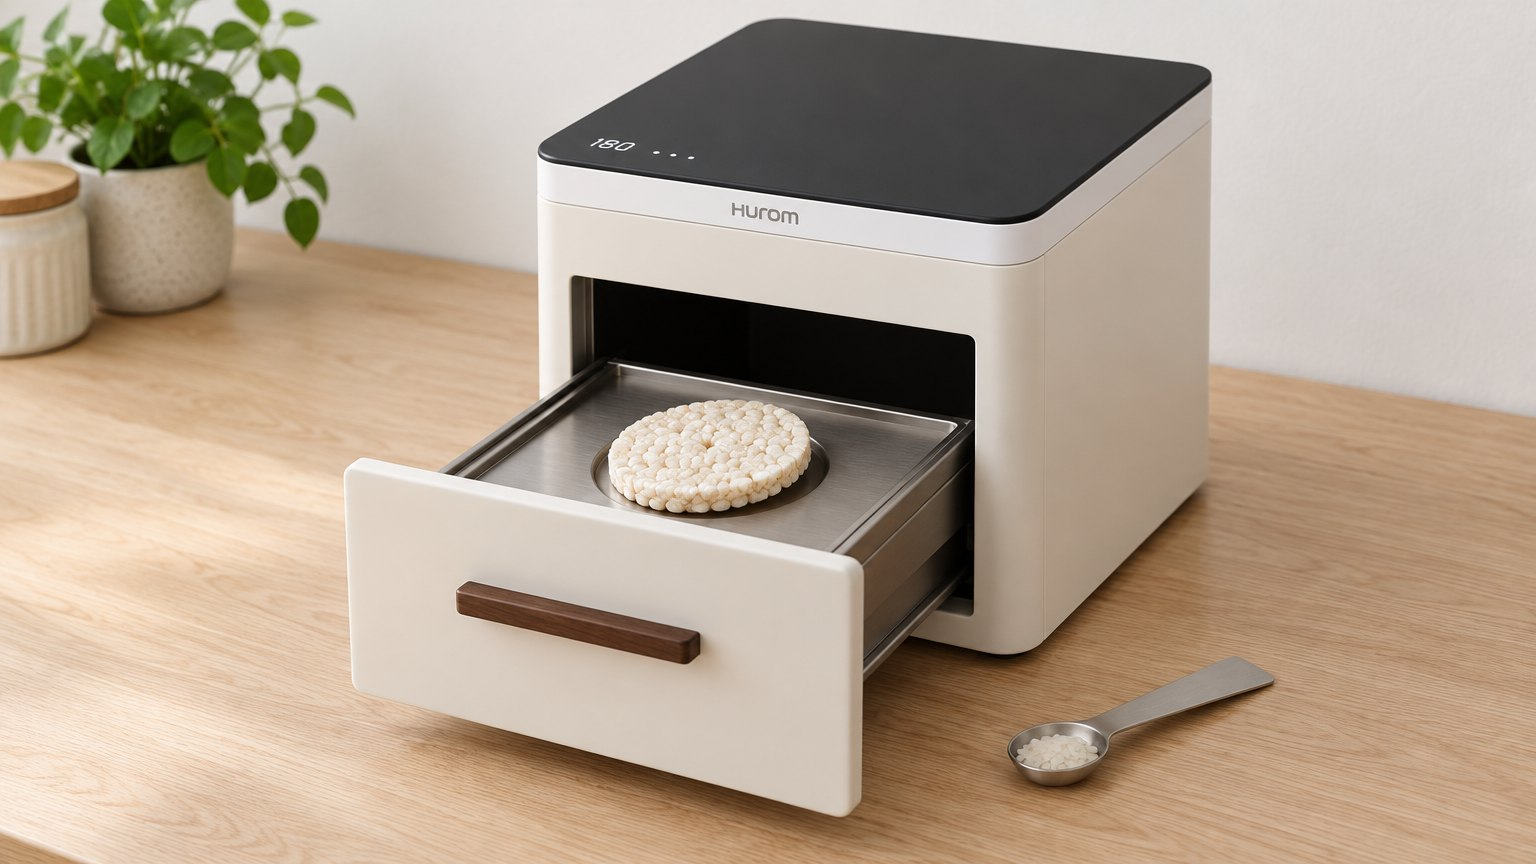
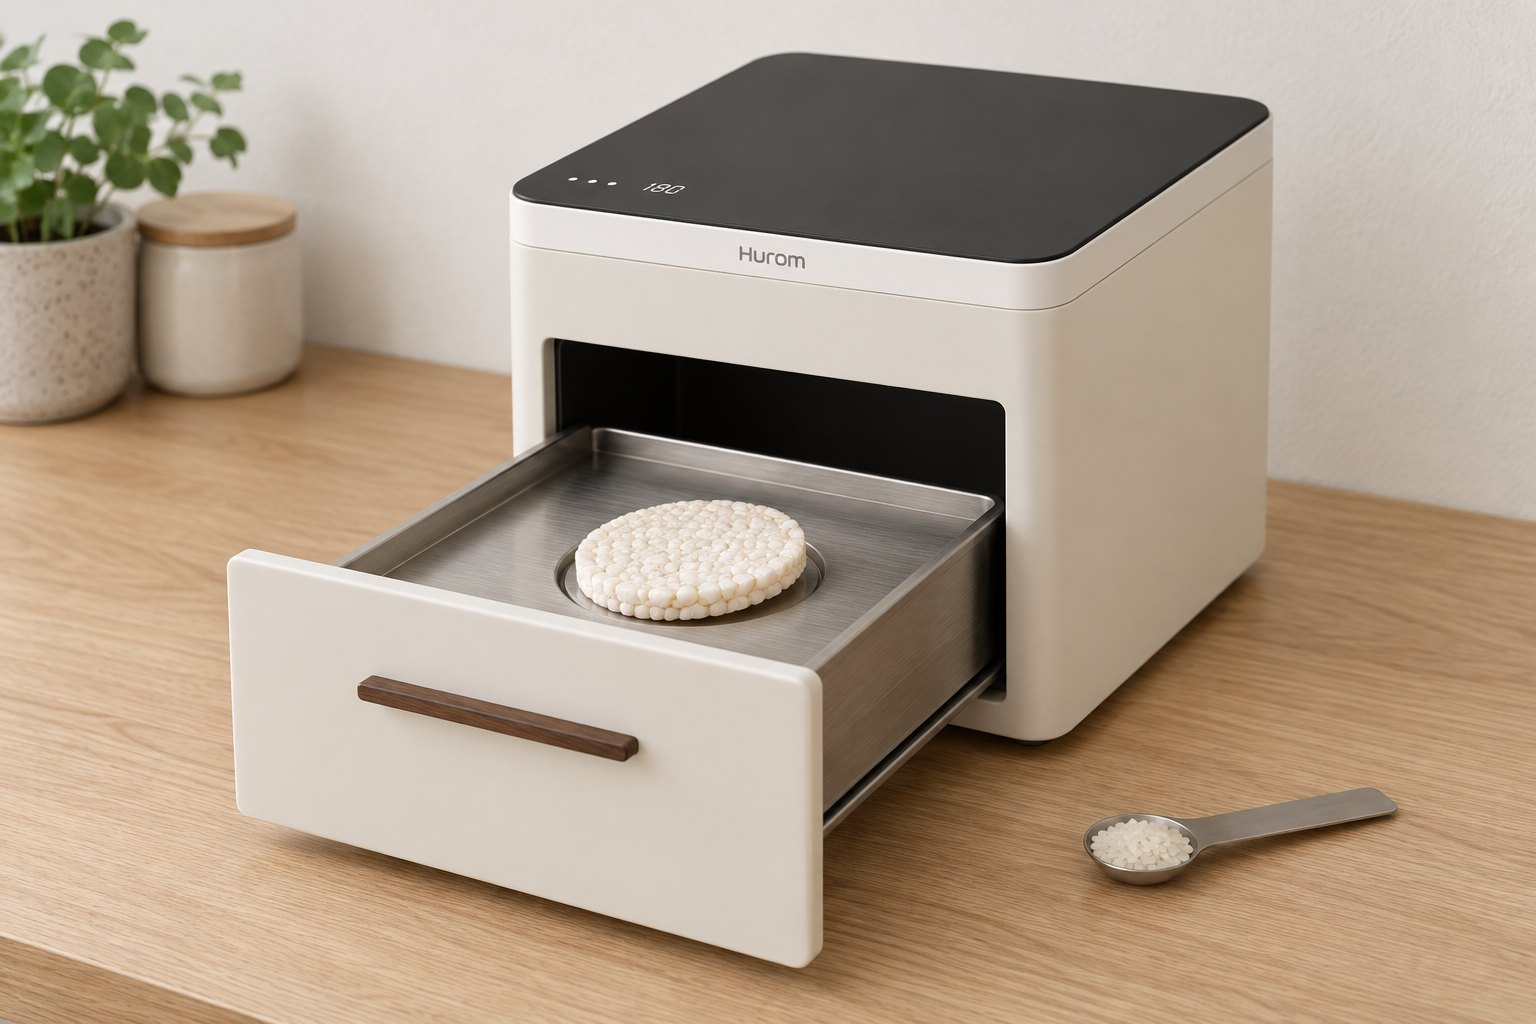
쌀참 r8: 실사 open 사진 3:2 로 다시(검은 띠 제거) · 사용 칸 캡션 「밀판이 떡뻥을 틀 위로」 · 경사판은 고정 부품(3D)

diff --git a/index.html b/index.html
@@ -270,7 +270,7 @@ footer .ver{font-size:9.5px;color:#b8b2a6;margin-left:10px}
       <div class="photo rv" style="margin-top:0"><img src="img/photo_touch.jpg" alt="2 서랍 밀어 넣고 상판 터치 — 실사 컨셉(AI 생성)"></div>
       <div class="photo rv" style="margin-top:0"><img src="img/photo_open.jpg" alt="3 완료 뒤 서랍을 끝까지 빼면 밀판이 떡뻥을 틀 위로 올림 — 실사 컨셉(AI 생성)"></div>
     </div>
-    <p class="cap rv">1 서랍 빼서 펴개 숟가락으로 마른 쌀 한 겹 · 2 밀어 넣고 상판 터치(김은 뒤 슬릿으로) · 3 완료 뒤 서랍을 빼면 틀 안에 떡뻥 한 장 · 실사 컨셉(AI 생성). 앞면엔 서랍 하나와 그 아래 부스러기 받침 턱뿐입니다.</p>
+    <p class="cap rv">1 서랍 빼서 펴개 숟가락으로 마른 쌀 한 겹 · 2 밀어 넣고 상판 터치(김은 뒤 슬릿으로) · 3 완료 뒤 서랍을 끝까지 빼면 밀판이 떡뻥을 틀 위로 올림 · 실사 컨셉(AI 생성). 앞면엔 서랍 하나와 그 아래 부스러기 받침 턱뿐입니다.</p>
     <div class="steps">
       <figure class="rv"><img src="img/step1.svg" alt="1 서랍 빼서 쌀 넣기"><figcaption><b><i>1</i>서랍 빼서 한 숟가락</b><p>예열 불빛이 켜지면 서랍을 당겨 빼고, 같이 든 계량 겸 펴개 숟가락에 마른 쌀 3g을 담아, 틀 지름에 맞춘 넓적한 끝으로 쓸어 넣습니다. 불리지 않습니다. 쌀은 틀 바닥 2/3를 덮는 한 겹이 되고, 부풀면서 서로 붙어 한 장이 됩니다.</p></figcaption></figure>
       <figure class="rv"><img src="img/step2.svg" alt="2 밀어 넣고 터치"><figcaption><b><i>2</i>밀어 넣고 터치</b><p>서랍을 끝까지 밀면 잠기고, 시작을 누르면 10초. 피스톤이 트레이째 올려 누르고 「뻥」 뒤 천천히 내립니다. 불빛이 완료로 바뀝니다.</p></figcaption></figure>

diff --git a/test/body_v7.html b/test/body_v7.html
@@ -104,7 +104,7 @@
       <div class="photo rv" style="margin-top:0"><img src="img/photo_touch.jpg" alt="2 서랍 밀어 넣고 상판 터치 — 실사 컨셉(AI 생성)"></div>
       <div class="photo rv" style="margin-top:0"><img src="img/photo_open.jpg" alt="3 완료 뒤 서랍을 끝까지 빼면 밀판이 떡뻥을 틀 위로 올림 — 실사 컨셉(AI 생성)"></div>
     </div>
-    <p class="cap rv">1 서랍 빼서 펴개 숟가락으로 마른 쌀 한 겹 · 2 밀어 넣고 상판 터치(김은 뒤 슬릿으로) · 3 완료 뒤 서랍을 빼면 틀 안에 떡뻥 한 장 · 실사 컨셉(AI 생성). 앞면엔 서랍 하나와 그 아래 부스러기 받침 턱뿐입니다.</p>
+    <p class="cap rv">1 서랍 빼서 펴개 숟가락으로 마른 쌀 한 겹 · 2 밀어 넣고 상판 터치(김은 뒤 슬릿으로) · 3 완료 뒤 서랍을 끝까지 빼면 밀판이 떡뻥을 틀 위로 올림 · 실사 컨셉(AI 생성). 앞면엔 서랍 하나와 그 아래 부스러기 받침 턱뿐입니다.</p>
     <div class="steps">
       <figure class="rv"><img src="img/step1.svg" alt="1 서랍 빼서 쌀 넣기"><figcaption><b><i>1</i>서랍 빼서 한 숟가락</b><p>예열 불빛이 켜지면 서랍을 당겨 빼고, 같이 든 계량 겸 펴개 숟가락에 마른 쌀 3g을 담아, 틀 지름에 맞춘 넓적한 끝으로 쓸어 넣습니다. 불리지 않습니다. 쌀은 틀 바닥 2/3를 덮는 한 겹이 되고, 부풀면서 서로 붙어 한 장이 됩니다.</p></figcaption></figure>
       <figure class="rv"><img src="img/step2.svg" alt="2 밀어 넣고 터치"><figcaption><b><i>2</i>밀어 넣고 터치</b><p>서랍을 끝까지 밀면 잠기고, 시작을 누르면 10초. 피스톤이 트레이째 올려 누르고 「뻥」 뒤 천천히 내립니다. 불빛이 완료로 바뀝니다.</p></figcaption></figure>
